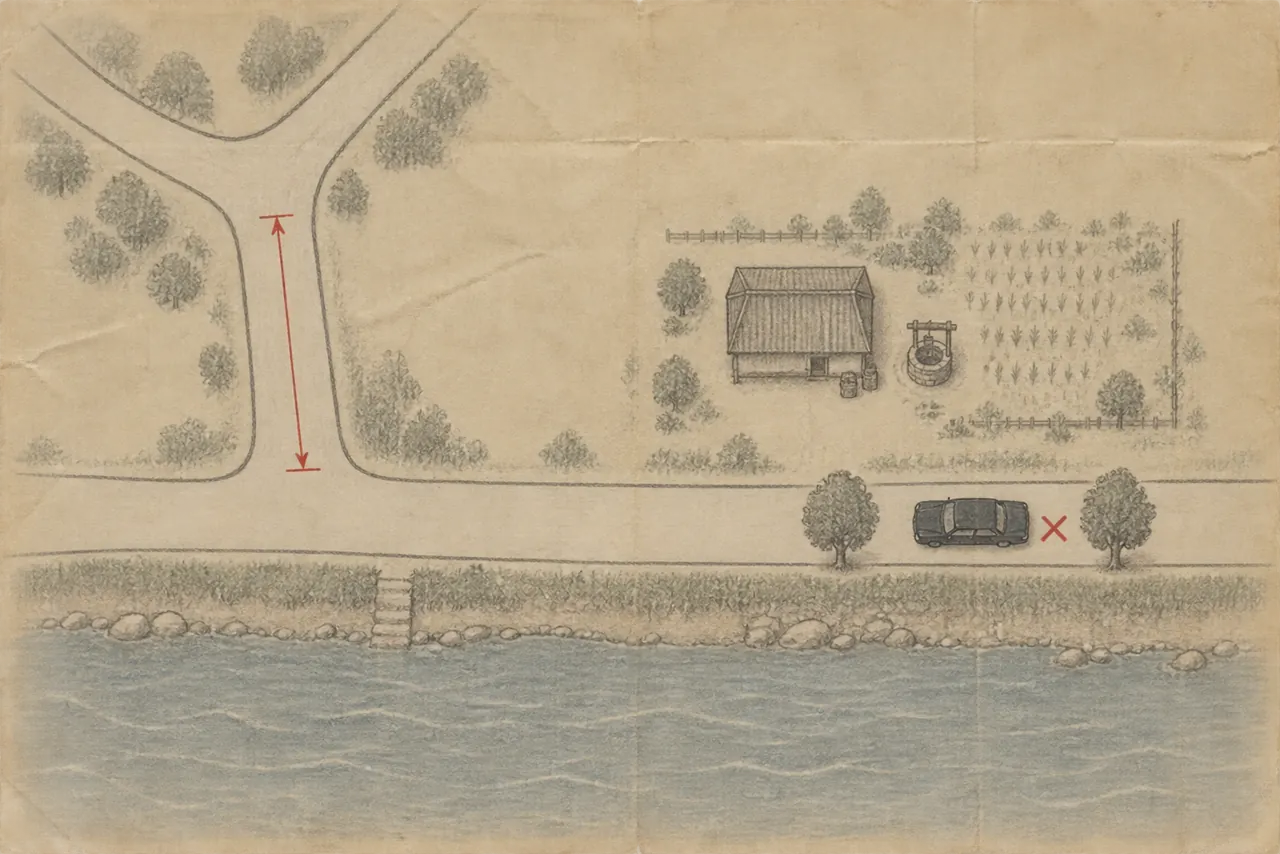
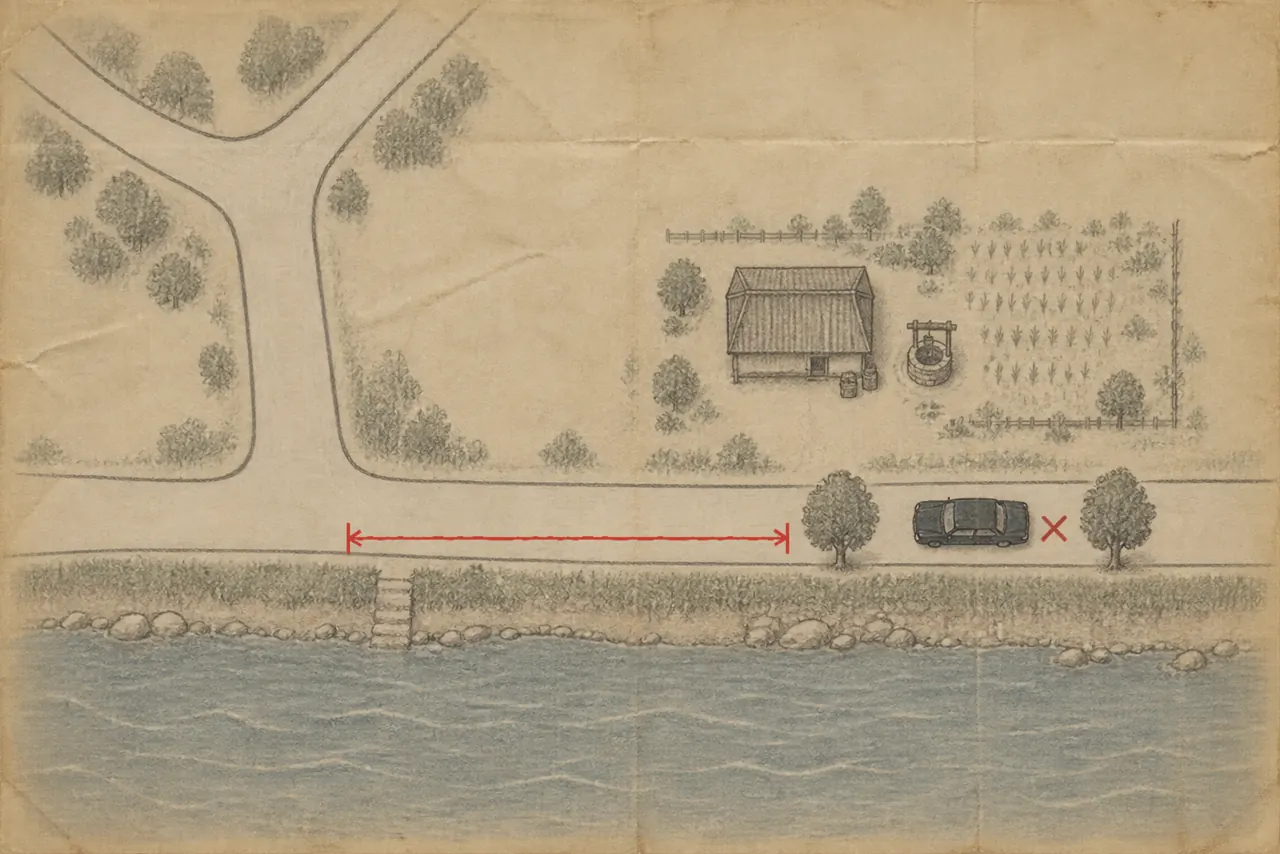
Two photo/text mismatches left from the CASE 04-07 playtest: - CASE 07 scene map: the red distance arrow was drawn on the side road. It now runs along the riverside road from the junction toward the car, under the '400 m' label. - CASE 05 trace record: the photo shows one truck at the dock, so the p

diff --git a/cases/c05-westcoast-1969.js b/cases/c05-westcoast-1969.js
@@ -297,7 +297,7 @@
       ] },
       r_trace: { src: 'kpd', need: ['k_trace'], skin: 'report', blood: false, title: '회선 추적 회신 — 5월 4일 새벽', meta: '카브릴로 전화회사 놀턴 교환국 → 놀턴 경찰서', body: [
         { img: 'payphone', cap: '00:39 순찰차가 찍은 공중전화. 수화기가 늘어져 있다.' },
-        { rows: [['00:20', '경찰서 요청 접수. 통화 회선이 열린 채 유지됨'], ['00:29', '발신 회선 확인 — [[도크 스트리트]] 212, 주유소 옆 [[공중전화]] (KN 4-0917)'], ['00:39', '순찰차 도착. 수화기가 줄에 매달려 흔들리고 있었음. 주변에 사람 없음'], ['비고', '순찰차 기록 — 길 건너편 창고 하역장에 불이 켜져 있었음. 트럭 여러 대가 시동을 건 채 짐을 싣는 중']], head: ['시각', '내용'], f: { 1: 'f_trace', 3: 'f_trace' } },
+        { rows: [['00:20', '경찰서 요청 접수. 통화 회선이 열린 채 유지됨'], ['00:29', '발신 회선 확인 — [[도크 스트리트]] 212, 주유소 옆 [[공중전화]] (KN 4-0917)'], ['00:39', '순찰차 도착. 수화기가 줄에 매달려 흔들리고 있었음. 주변에 사람 없음'], ['비고', '순찰차 기록 — 길 건너편 창고 하역장에 불이 켜져 있었음. 배송 트럭이 시동을 건 채 짐을 싣는 중이었고, 창고 뒤편에서도 엔진 소리가 났음']], head: ['시각', '내용'], f: { 1: 'f_trace', 3: 'f_trace' } },
         { p: '공중전화 수화기와 부스 유리에서 지문 여럿 채취 — 주유소 손님과 섞여 가려내기 어려움.' },
         { sign: '교환국 야간 주임 R. 파울러' },
       ] },

diff --git a/i18n/ru/c05.js b/i18n/ru/c05.js
@@ -312,7 +312,7 @@ MG.I18N.put("ru", "c05", {
 "8vwf61lpwe": "Установлена линия, с которой звонили, — [[Док-стрит|k_dockst]], 212, [[таксофон|k_payphone]] у заправки (KN 4-0917)",
 "mw44i2l680": "Прибыла патрульная машина. Трубка раскачивалась на шнуре. Вокруг никого",
 "2ek138wwlt9": "Примечание",
-"ft9t9i5cj6": "Запись патруля: через дорогу на погрузочной площадке склада горел свет. Несколько грузовиков с работающими моторами стояли под погрузкой",
+"fjcmkbq5ty": "Запись патруля: через дорогу на погрузочной площадке склада горел свет. Развозной грузовик с работающим мотором стоял под погрузкой, за складом тоже работали моторы",
 "21ccisgg3b2": "Время",
 "1asabu37jws": "Содержание",
 "18ax2nhyxgx": "С трубки таксофона и стекла будки сняты многочисленные отпечатки пальцев — вперемешку с отпечатками клиентов заправки, выделить нужные трудно.",

diff --git a/i18n/ja/c05.js b/i18n/ja/c05.js
@@ -312,7 +312,7 @@ MG.I18N.put("ja", "c05", {
 "8vwf61lpwe": "発信回線を確認 — [[ドック・ストリート|k_dockst]]212、ガソリンスタンド横の[[公衆電話|k_payphone]]（KN 4-0917）",
 "mw44i2l680": "パトカー到着。受話器がコードにぶら下がって揺れていた。周囲に人影なし",
 "2ek138wwlt9": "備考",
-"ft9t9i5cj6": "パトカーの記録 — 通りの向かいの倉庫の荷積み場に明かりがついていた。トラック数台がエンジンをかけたまま荷を積んでいる最中",
+"fjcmkbq5ty": "パトカーの記録 — 通りの向かいの倉庫の荷積み場に明かりがついていた。配送トラックがエンジンをかけたまま荷を積んでいる最中で、倉庫の裏手からもエンジンの音がしていた",
 "21ccisgg3b2": "時刻",
 "1asabu37jws": "内容",
 "18ax2nhyxgx": "公衆電話の受話器とボックスのガラスから指紋を複数採取 — ガソリンスタンドの客のものと混ざり、選り分けるのは困難。",

diff --git a/i18n/de/c05.js b/i18n/de/c05.js
@@ -312,7 +312,7 @@ MG.I18N.put("de", "c05", {
 "8vwf61lpwe": "Anschluss des Anrufers ermittelt — [[Münztelefon|k_payphone]] neben der Tankstelle, [[Dock Street|k_dockst]] 212 (KN 4-0917)",
 "mw44i2l680": "Streifenwagen trifft ein. Hörer hing pendelnd an der Schnur. Niemand in der Nähe",
 "2ek138wwlt9": "Bemerkung",
-"ft9t9i5cj6": "Vermerk der Streife — Laderampe des Lagers gegenüber beleuchtet. Mehrere Lastwagen werden mit laufendem Motor beladen",
+"fjcmkbq5ty": "Vermerk der Streife — Laderampe des Lagers gegenüber beleuchtet. Ein Lieferwagen wird mit laufendem Motor beladen, auch hinter dem Lager laufen Motoren",
 "21ccisgg3b2": "Zeit",
 "1asabu37jws": "Vorgang",
 "18ax2nhyxgx": "Mehrere Fingerabdrücke vom Hörer und von den Scheiben der Zelle gesichert — mit denen von Tankstellenkunden vermischt, kaum zuzuordnen.",

diff --git a/i18n/en/c05.js b/i18n/en/c05.js
@@ -312,7 +312,7 @@ MG.I18N.put("en", "c05", {
 "8vwf61lpwe": "Calling line identified — [[pay phone|k_payphone]] beside the gas station, 212 [[Dock Street|k_dockst]] (KN 4-0917)",
 "mw44i2l680": "Patrol car arrives. Receiver swinging on its cord. No one around",
 "2ek138wwlt9": "Remarks",
-"ft9t9i5cj6": "Patrol car log — lights on at the warehouse loading dock across the street. Several trucks being loaded with their engines running",
+"fjcmkbq5ty": "Patrol car log — lights on at the warehouse loading dock across the street. A delivery truck being loaded with its engine running, and more engines running behind the warehouse",
 "21ccisgg3b2": "Time",
 "1asabu37jws": "Details",
 "18ax2nhyxgx": "Several fingerprints lifted from the receiver and the booth glass — mixed in with gas station customers', hard to sort out.",

diff --git a/i18n/zh/c05.js b/i18n/zh/c05.js
@@ -312,7 +312,7 @@ MG.I18N.put("zh", "c05", {
 "8vwf61lpwe": "查明发话线路——[[码头街|k_dockst]]212号，加油站旁的[[公用电话|k_payphone]]（KN 4-0917）",
 "mw44i2l680": "巡逻车到达。听筒吊在电话线上晃荡。周围无人",
 "2ek138wwlt9": "备注",
-"ft9t9i5cj6": "巡逻车记录——街对面仓库的装卸台亮着灯。几辆卡车发动着引擎正在装货",
+"fjcmkbq5ty": "巡逻车记录——街对面仓库的装卸台亮着灯。一辆送报卡车发动着引擎正在装货，仓库后面也传来引擎声",
 "21ccisgg3b2": "时间",
 "1asabu37jws": "内容",
 "18ax2nhyxgx": "从公用电话听筒和电话亭玻璃上采集到多枚指纹——与加油站顾客的指纹混杂，难以分辨。",

diff --git a/img/manifest.js b/img/manifest.js
@@ -130,7 +130,7 @@ window.MG.images = {
   "c07/news_car": "img/c07/news_car.webp?v=ec4f8f41",
   "c07/photo_car": "img/c07/photo_car.webp?v=1fb8d5f0",
   "c07/photo_seat": "img/c07/photo_seat.webp?v=7c0efa95",
-  "c07/scene_map": "img/c07/scene_map.webp?v=ae8370e9",
+  "c07/scene_map": "img/c07/scene_map.webp?v=d8fdd396",
   "c07/seokcar": "img/c07/seokcar.webp?v=3946e54c",
   "c07/shop": "img/c07/shop.webp?v=ce3ae570",
   "c07/songwol_gate": "img/c07/songwol_gate.webp?v=ef7a8716",
